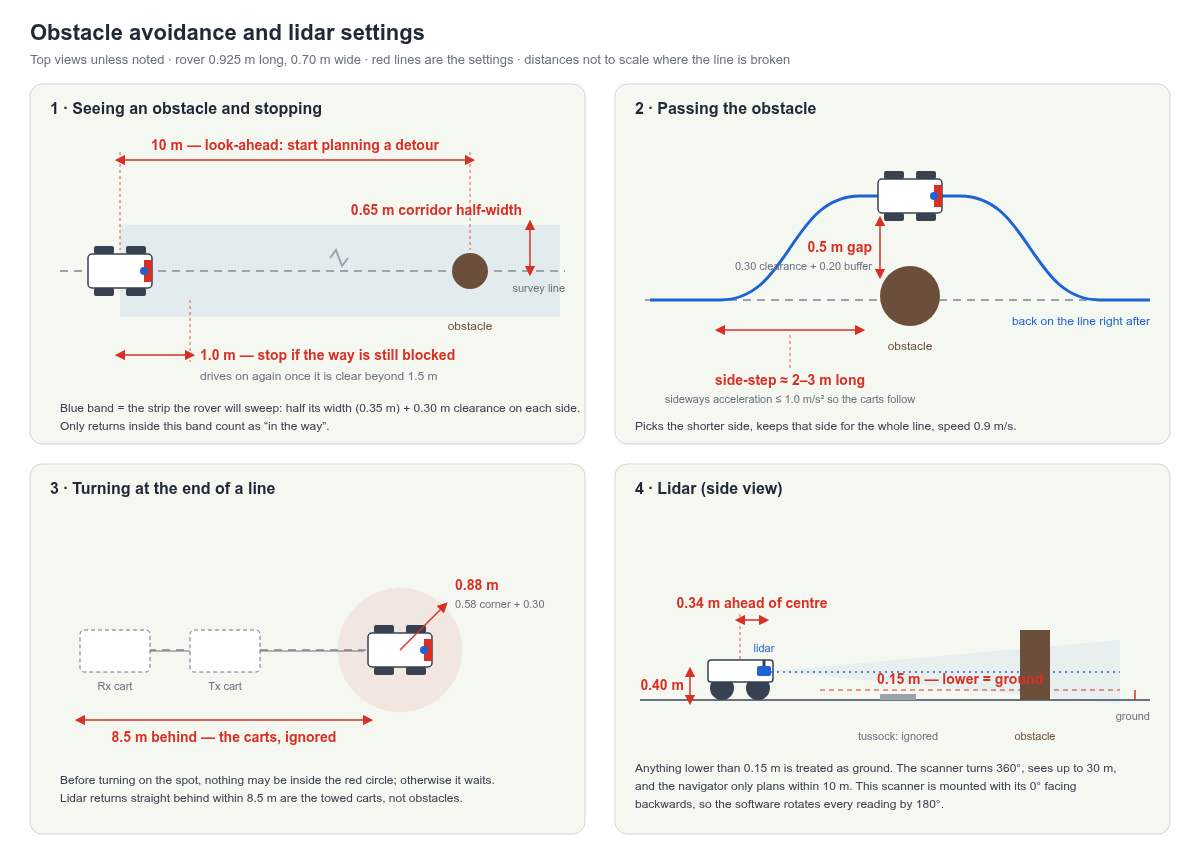
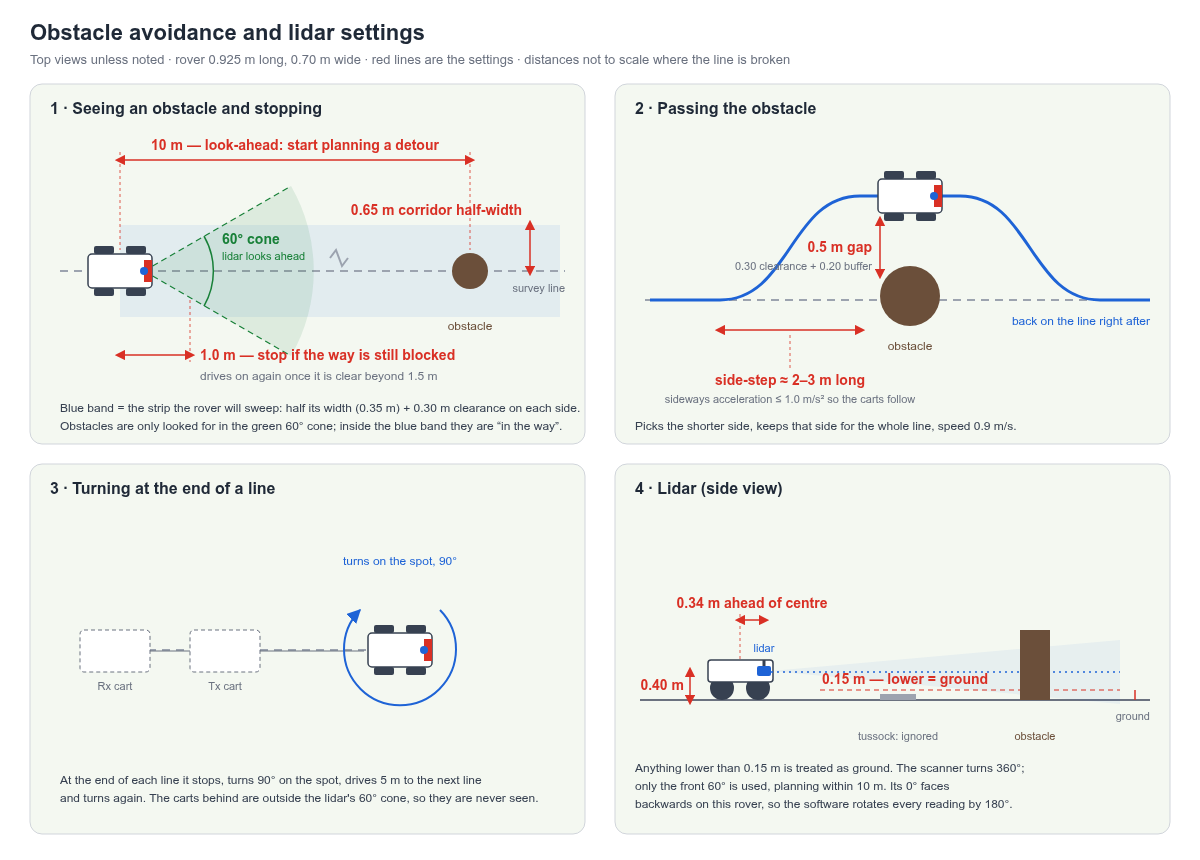
60 deg forward detection cone; drop the spot-turn swing check and the unreachable towed-train mask

diff --git a/scout_navigation/scout_navigation/survey_navigator.py b/scout_navigation/scout_navigation/survey_navigator.py
@@ -13,7 +13,7 @@ from tf2_ros import TransformBroadcaster
 
 from .detour import lateral_offset, nearest_group, plan_detour
 from .geodesy import LocalTangentPlane, wrap_to_pi
-from .obstacle_monitor import line_frame, scan_points, to_world, without_towed_train
+from .obstacle_monitor import line_frame, scan_points, to_world
 from .pose_estimator import PoseEstimator
 from .survey_grid import generate_survey_mission
 
@@ -28,8 +28,9 @@ PARAMETERS = [
     ('rotation_settled_rate', 0.05),
     ('obstacle_standoff', 0.5), ('obstacle_hysteresis', 0.1), ('obstacle_clearance', 0.15),
     ('hold_hysteresis', 0.5),
-    ('rover_half_width', 0.35), ('swing_radius', 0.58), ('lidar_offset', 0.34),
-    ('lidar_height', 0.395), ('lidar_yaw', 0.0), ('minimum_obstacle_height', 0.15),
+    ('rover_half_width', 0.35), ('lidar_offset', 0.34),
+    ('lidar_height', 0.395), ('lidar_yaw', 0.0), ('detection_field_of_view', 1.047),
+    ('minimum_obstacle_height', 0.15),
     ('range_step_threshold', 0.3), ('maximum_object_angle', 1.57),
     ('detour_lookahead', 10.0), ('detour_lateral_acceleration', 1.0),
     ('detour_segment_length', 1.0),
@@ -242,9 +243,8 @@ class SurveyNavigator(Node):
         points = scan_points(message, self.attitude, self.settings['lidar_height'],
                              self.settings['minimum_obstacle_height'],
                              self.settings['range_step_threshold'],
-                             self.settings['maximum_object_angle'], self.settings['lidar_yaw'])
-        points = without_towed_train(points, self.settings['lidar_offset'],
-                                     self.settings['towed_length'])
+                             self.settings['maximum_object_angle'], self.settings['lidar_yaw'],
+                             self.settings['detection_field_of_view'])
         self.obstacle_points = to_world(points, self.estimator.position, self.estimator.heading,
                                         self.settings['lidar_offset'])
         header = Header(stamp=message.header.stamp, frame_id='map')
@@ -314,7 +314,7 @@ class SurveyNavigator(Node):
             return 'COMPLETE'
 
         if self.mission[self.step_index][0] == 'turn':
-            return 'TURNING' if self.swing_clear() else 'HOLDING'
+            return 'TURNING'
 
         hold_distance = self.settings['obstacle_standoff'] + self.braking_distance()
         if self.state == 'HOLDING':
@@ -336,13 +336,6 @@ class SurveyNavigator(Node):
         start, end = self.survey_line
         along = line_frame(self.estimator.position[None, :], start, end)[0][0]
         return float(np.hypot(*(end - start))) - along
-
-    def swing_clear(self):
-        """Nothing inside the circle the body sweeps while turning on the spot."""
-        radius = self.settings['swing_radius'] + self.settings['obstacle_clearance']
-        if self.state == 'HOLDING':
-            radius += self.settings['hold_hysteresis']
-        return not (np.hypot(*(self.obstacle_points - self.estimator.position).T) < radius).any()
 
     def blocking_distance(self):
         """Distance along the planned drive steps to the first return inside the swept corridor."""

diff --git a/scout_navigation/scout_navigation/obstacle_monitor.py b/scout_navigation/scout_navigation/obstacle_monitor.py
@@ -2,11 +2,12 @@ import numpy as np
 
 
 def scan_points(scan, attitude, sensor_height, minimum_obstacle_height, step_threshold,
-                maximum_object_angle, lidar_yaw=0.0):
+                maximum_object_angle, lidar_yaw, field_of_view):
     """Body-frame x, y of every beam that hit a standing object rather than the ground.
 
     lidar_yaw is where the scan's own zero bearing points, measured from the rover's
     forward direction, so a unit bolted on facing aft is pi rather than a code change.
+    Only beams within field_of_view centred on the rover's heading are kept.
     """
     ranges = np.asarray(scan.ranges)
     angles = scan.angle_min + scan.angle_increment * np.arange(len(ranges)) + lidar_yaw
@@ -20,6 +21,9 @@ def scan_points(scan, attitude, sensor_height, minimum_obstacle_height, step_thr
 
     ranges, angles = standing_objects(ranges[valid], angles[valid], step_threshold,
                                       maximum_object_angle)
+    # Segment on the full scan first so an object straddling the cone edge keeps its true width
+    ahead = np.abs(np.angle(np.exp(1j * angles))) <= field_of_view / 2.0
+    ranges, angles = ranges[ahead], angles[ahead]
     return np.column_stack([ranges * np.cos(angles), ranges * np.sin(angles)])
 
 
@@ -36,12 +40,6 @@ def standing_objects(ranges, angles, step_threshold, maximum_object_angle):
             compact |= members
     return ranges[compact], angles[compact]
 
-
-def without_towed_train(points, sensor_offset, towed_length):
-    """Drops returns from the carts the rover tows: behind base_link and within the train's reach."""
-    behind = points[:, 0] + sensor_offset < 0.0
-    near = np.hypot(points[:, 0] + sensor_offset, points[:, 1]) < towed_length
-    return points[~(behind & near)]
 
 
 def to_world(points, position, heading, sensor_offset):

diff --git a/scout_navigation/research_log.zh.md b/scout_navigation/research_log.zh.md
@@ -1120,3 +1120,11 @@ Tx 位置误差均值 0.20 m；Rx 的 2.0 m 不算干净的测试，因为那次
 路线清空并重新锁存，同一网格（对准时的方位和原点）重新生成测线，进入 idle 等 Start。用三条线的场地文件
 （`config/field_today.yaml`，短测量模板：原点、方位、宽度 = (线数 − 1) × 间距、长度）在仿真里验证过。
 按 Start 前应把车推回起点角；在别处恢复的话它会把第一条线剩余距离当作已完成。
+
+## 2026-09-23 — 60° 检测扇区；删除原地转弯检查
+
+障碍只在正前方 60° 扇区内检测（`detection_field_of_view` 1.047 rad），在分段之后裁剪，扇区边上的物体保留完整宽度。
+按用户决定删除原地转弯扫掠检查（`swing_radius`，0.88 m 圆），转弯不再等圆内清空。后方不在视野内，拖车屏蔽永远不会触发，一并删除；
+`towed_length` 只留给页面画拖车。仿真七障碍、0.9 m/s：全部通过，间距 +0.30 .. +0.55 m，零停车、零 LOST。
+要记住的后果：雷达 1.1 m 以内 60° 扇区比 1.3 m 通道窄，近处从侧面进来的东西看不到；原地转弯时也没有任何侧向检查。靠遥控器急停兜底。
+`results/figures/avoidance_parameters.svg` 给非专业人士看全部参数。

diff --git a/scout_navigation/research_log.md b/scout_navigation/research_log.md
@@ -662,3 +662,16 @@ from alignment), mode idle until Start. Verified in simulation with a three-line
 (`config/field_today.yaml`, a template for short surveys: origin, bearing, width = (lines − 1) ×
 spacing, length). The rover is expected to be brought back to the start corner before Start;
 resumed elsewhere it treats the remaining distance of line 1 as done.
+
+## 2026-09-23 — 60° detection cone; spot-turn check removed
+
+Obstacles are now looked for only in a 60° cone ahead (`detection_field_of_view` 1.047 rad),
+cut after segmentation so an object on the cone edge keeps its width. The spot-turn swing check
+(`swing_radius`, 0.88 m circle) is removed at the user's call: turns no longer wait for a clear
+circle. With nothing behind in view, the towed-train mask could never fire and is removed too;
+`towed_length` stays only so the dashboard draws the carts. Simulation, seven obstacles, 0.9 m/s:
+all passed with clearances +0.30 .. +0.55 m, no holds, no LOST.
+Consequence to remember: within about 1.1 m of the lidar the 60° cone is narrower than the
+1.3 m corridor, so an object stepping in from the side close up is not seen, and nothing
+checks the sides during a spot turn. The RC e-stop covers both.
+`results/figures/avoidance_parameters.svg` shows every setting for non-specialists.
